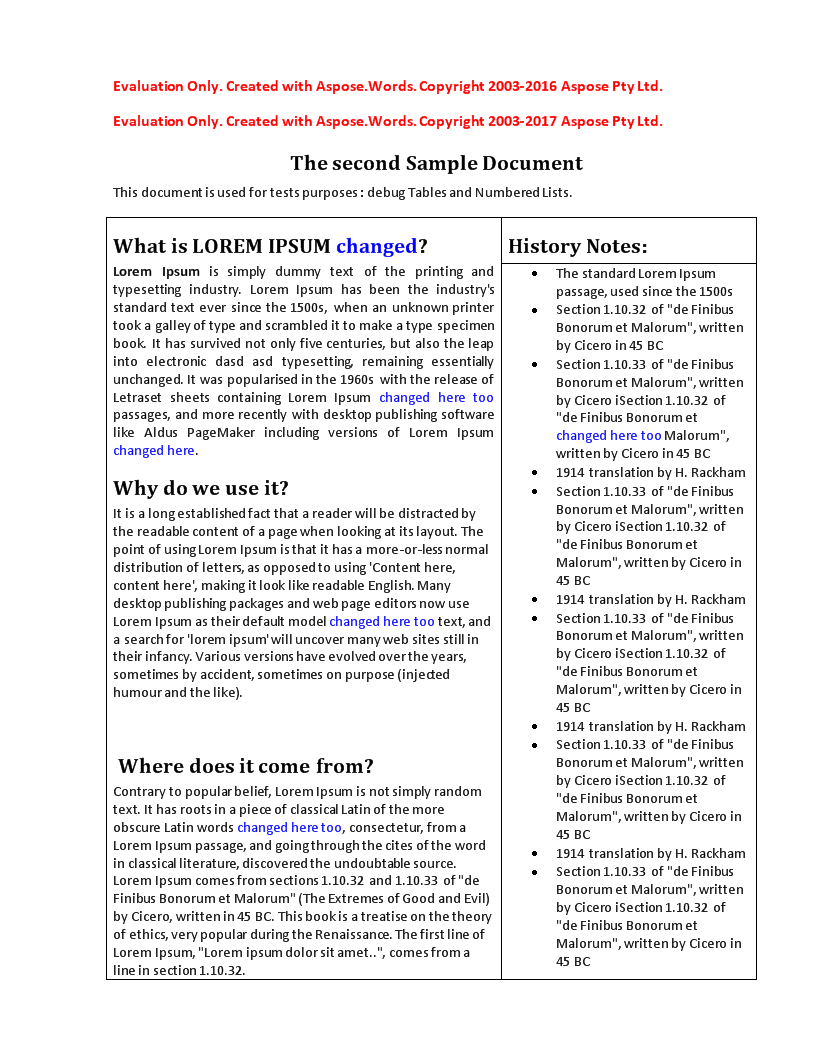
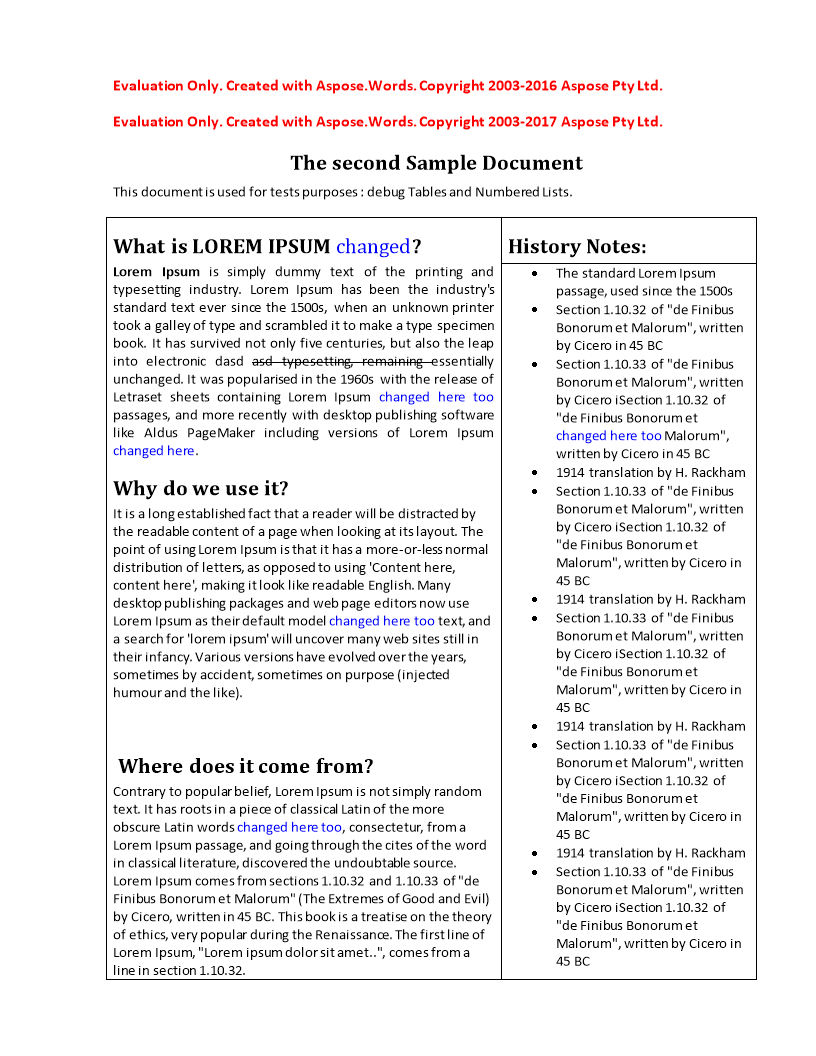
Example and Showcase project code updated with API v17.5.0

diff --git a/Examples/CSharp/CommonComparision.cs b/Examples/CSharp/CommonComparision.cs
@@ -45,7 +45,7 @@ namespace GroupDocs.Comparison.Examples.CSharp
 
             // Get instance of GroupDocs.Comparison.Comparer and call method Compare.
             GroupDocs.Comparison.Comparer comparison = Common.getComparison();
-            ICompareResult result = comparison.Compare(sourceStream, targetStream, new ComparisonSettings());
+            ICompareResult result = comparison.Compare(sourceStream, targetStream, new ComparisonSettings { DeletedItemsStyle = new StyleSettings { StrikeThrough = true }, GenerateSummaryPage = true, DetailLevel = DetailLevel.Hight });
 
             // save result document to a file.
             result.SaveDocument(Path.Combine(Common.resultPath, Common.resultFile));
@@ -63,7 +63,7 @@ namespace GroupDocs.Comparison.Examples.CSharp
         {
             // Get instance of GroupDocs.Comparison.Comparer and call method Compare.
             GroupDocs.Comparison.Comparer comparison = Common.getComparison();
-            ICompareResult result = comparison.Compare(Path.Combine(Common.sourcePath, Common.sourceFile), Path.Combine(Common.targetPath, Common.targetFile), new ComparisonSettings());
+            ICompareResult result = comparison.Compare(Path.Combine(Common.sourcePath, Common.sourceFile), Path.Combine(Common.targetPath, Common.targetFile), new ComparisonSettings { DeletedItemsStyle = new StyleSettings { StrikeThrough = true } });
 
             // get result document as stream.
             Stream stream = result.GetStream();

diff --git a/Showcases/GroupDocs.Comparison.Viewer/GroupDocsComparisonMvcDemo/ComparisonService.cs b/Showcases/GroupDocs.Comparison.Viewer/GroupDocsComparisonMvcDemo/ComparisonService.cs
@@ -3,6 +3,7 @@ using System.IO;
 using System.Linq;
 using GroupDocs.Comparison.Common.Changes;
 using GroupDocs.Viewer;
+using GroupDocs.Comparison.Common.ComparisonSettings;
 
 namespace GroupDocsComparisonMvcDemo
 {
@@ -87,7 +88,7 @@ namespace GroupDocsComparisonMvcDemo
             if (lastDotIndex != -1)
             {
                 name = resultFileName.Substring(0, lastDotIndex + 1);
-                resultFileName = name +_target.Extention;
+                resultFileName = name + _target.Extention;
             }
             else
             {
@@ -106,7 +107,7 @@ namespace GroupDocsComparisonMvcDemo
             comparison = new GroupDocs.Comparison.Comparer();
             var resultName = Path.Combine(_settings.RootStoragePath, resultFileName);
             //Compare documents
-            results = comparison.Compare(_source.Content, _source.DocumentPassword, _target.Content, _target.DocumentPassword, new GroupDocs.Comparison.Common.ComparisonSettings.ComparisonSettings());
+            results = comparison.Compare(_source.Content, _source.DocumentPassword, _target.Content, _target.DocumentPassword, new GroupDocs.Comparison.Common.ComparisonSettings.ComparisonSettings { DeletedItemsStyle = new StyleSettings { StrikeThrough = true }, GenerateSummaryPage = true });
 
             //Get changes
             var changes = results.GetChanges();

diff --git a/Examples/CSharp/Program.cs b/Examples/CSharp/Program.cs
@@ -16,8 +16,8 @@ namespace GroupDocs.Comparison.Examples.CSharp
             Common.resultPath = Path.Combine(Environment.CurrentDirectory, @"../../../Data/OutputFiles");
 
             // set source and target files to compare
-            Common.sourceFile = "source.docx";
-            Common.targetFile = "target.docx";
+            Common.sourceFile = "Current.docx";
+            Common.targetFile = "OlderVersion.docx";
 
             // Uncomment following lines and specify the licence file to embed product licence using file path.
             // Common.licensePath = Path.Combine(Environment.CurrentDirectory, @"GroupDocs.Total.lic"); //"D:/License/GroupDocs.Total.lic";

diff --git a/Examples/README.md b/Examples/README.md
@@ -12,7 +12,7 @@ This package contains C# and VB.NET Example Projects for [GroupDocs.Comparison f
 
 + Visual Studio 2012 or later.
 
-+ GroupDocs.Comparison 17.3.0.
++ GroupDocs.Comparison 17.5.0.
 
 
 ##How to Run the Examples?

diff --git a/Showcases/GroupDocs.Comparison.Viewer/README.md b/Showcases/GroupDocs.Comparison.Viewer/README.md
@@ -14,7 +14,7 @@ Open Source Project.
 
 + Any latest browsers (Firefox, Chrome, Safari etc. )
 
-+ GroupDocs.Comparison 17.3.0
++ GroupDocs.Comparison 17.5.0
 
 + GroupDocs.Viewer 16.12.0.
 
